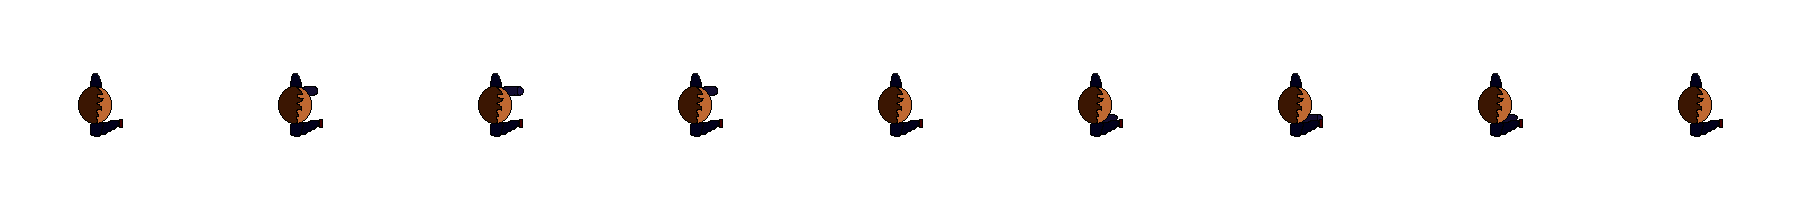
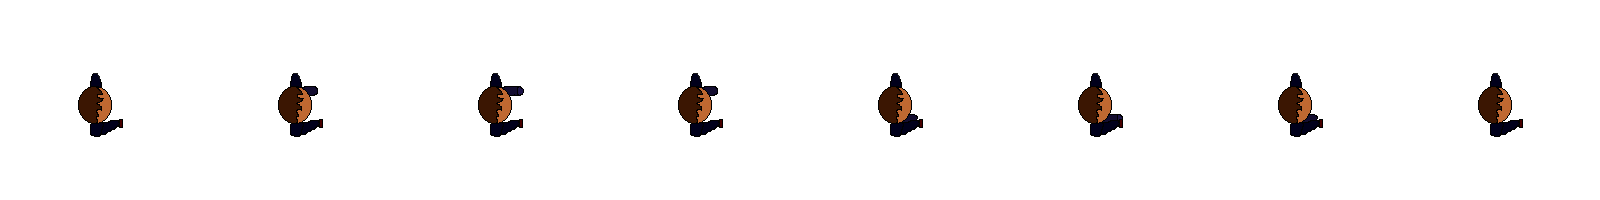
Updated the CharState finite state machine to include a "Face" state for every direction apart from the "Walk" states that already existed. Managed to get FaceRight and FaceLeft to work correctly. FaceUp and FaceDown have the character facing the correct direction but the rectangle is repositioned d

diff --git a/The_Attempt/The_Attempt/Game1.cs b/The_Attempt/The_Attempt/Game1.cs
@@ -49,7 +49,7 @@ namespace The_Attempt
         const int CHAR_WIDTH = 55;
         const int CHAR_X_OFFSET = 145;
 
-        enum CharState { WalkRight, WalkLeft, WalkUp, WalkDown };
+        enum CharState { WalkRight, WalkLeft, WalkUp, WalkDown, FaceRight, FaceLeft, FaceUp, FaceDown };
         CharState charState; // current state of the player character
         string pastDirection; // used to store the previous state
 
@@ -172,8 +172,6 @@ namespace The_Attempt
                         IsMouseVisible = true;
                         currentState = GameState.MainMenu;
                     }
-
-
                     break;
                 case GameState.MainGame:
                     // during the game, the player can press tab to bring up their phone menu
@@ -184,27 +182,62 @@ namespace The_Attempt
                         currentState = GameState.PhoneMenu;
                     }
 
-                    // check for input and update position
-                    string direction = input.Check(map);
-
                     // Calculate the frame to draw based on the time
                     framesElapsed = (int)(gameTime.TotalGameTime.TotalMilliseconds / timePerFrame);
                     frame = framesElapsed % numFrames + 1;
 
-                    // Add your finite state machine code (switch statement) here
+                    // check for input and update position
+                    string direction = input.Check(map);
+
+                    if (!kbState.IsKeyDown(Keys.A) && !kbState.IsKeyDown(Keys.D) && !kbState.IsKeyDown(Keys.W) && !kbState.IsKeyDown(Keys.S))
+                    {
+                        if (pastDirection == "Walk Left")
+                        {
+                            direction = "Face Left";
+                        }
+                        if(pastDirection == "Walk Right")
+                        {
+                            direction = "Face Right";
+                        }
+                        if (pastDirection == "Walk Up")
+                        {
+                            direction = "Face Up";
+                        }
+                        if (pastDirection == "Walk Down")
+                        {
+                            direction = "Face Down";
+                        }
+                    }
+
+                    pastDirection = direction; // store directiong for this update to use for comparison the next frame
+
+                    // finite state machine
                     switch (direction)
                     {
-                        case "Left":
+                        case "Walk Left":
                             charState = CharState.WalkLeft;
                             break;
-                        case "Right":
+                        case "Walk Right":
                             charState = CharState.WalkRight;
                             break;
-                        case "Up":
+                        case "Walk Up":
                             charState = CharState.WalkUp;
                             break;
-                        case "Down":
+                        case "Walk Down":
                             charState = CharState.WalkDown;
+                            break;
+
+                        case "Face Left":
+                            charState = CharState.FaceLeft;
+                            break;
+                        case "Face Right":
+                            charState = CharState.FaceRight;
+                            break;
+                        case "Face Up":
+                            charState = CharState.FaceUp;
+                            break;
+                        case "Face Down":
+                            charState = CharState.FaceDown;
                             break;
                     }
 
@@ -286,8 +319,7 @@ namespace The_Attempt
                 }
 
                 // draw the player to the screen
-                spriteBatch.Draw(player.CurrentTexture, player.Position, Color.White);
-
+                // if the player is walking in a direction
                 if (charState == CharState.WalkUp)
                 {
                     spriteBatch.Draw(playerImg, new Vector2(player.Position.X, player.Position.Y), null, Color.White, 1.57f, Vector2.Zero, 1, SpriteEffects.FlipHorizontally, 0);
@@ -304,7 +336,25 @@ namespace The_Attempt
                 {
                     spriteBatch.Draw(playerImg, new Vector2(player.Position.X, player.Position.Y), null, Color.White, 0, Vector2.Zero, 1, SpriteEffects.FlipHorizontally, 0);
                 }
-                
+
+                // if the player is only facing a direction (not walking)
+                if (charState == CharState.FaceUp)
+                {
+                    spriteBatch.Draw(playerImg, player.Position, null, Color.White, 1.57f, Vector2.Zero, SpriteEffects.FlipHorizontally, 0);
+                }
+                if (charState == CharState.FaceRight)
+                {
+                    spriteBatch.Draw(playerImg, player.Position, Color.White);
+                }
+                if (charState == CharState.FaceDown)
+                {
+                    spriteBatch.Draw(playerImg, player.Position, null, Color.White, -1.57f, Vector2.Zero, SpriteEffects.FlipHorizontally, 0);
+                }
+                if (charState == CharState.FaceLeft)
+                {
+                    spriteBatch.Draw(playerImg, player.Position, null, Color.White, 0, Vector2.Zero, SpriteEffects.FlipHorizontally, 0);
+                }
+
                 // draw the keys to the map
                 for (int i = 0; i < keys.Count; i++)
                 {

diff --git a/The_Attempt/The_Attempt/input.cs b/The_Attempt/The_Attempt/input.cs
@@ -38,7 +38,7 @@ namespace The_Attempt
                 // calls CollDectec.detect( argument either u,d,l or r (one of these), curGameMap.x, curGameMap.y) returning a bool to see if its colliding with a corridor
                 detect.corridorCheck(instanceOfPlayer, curGameMap, 'U' , curGameMap);
 
-                direction = "Up";
+                direction = "Face Up";
             }
             // check if the D key is being pressed
             if (kbState.IsKeyDown(Keys.D))
@@ -49,7 +49,7 @@ namespace The_Attempt
                 // calls CollDectec.detect( argument either u,d,l or r (one of these), curGameMap.x, curGameMap.y) returning a bool to see if its colliding with a corridor
                 detect.corridorCheck(instanceOfPlayer, curGameMap, 'R' , curGameMap);
 
-                direction = "Right";
+                direction = "Face Right";
             }
             // check if the S key is being pressed
             if (kbState.IsKeyDown(Keys.S))
@@ -60,7 +60,7 @@ namespace The_Attempt
                 // calls CollDectec.detect( argument either u,d,l or r (one of these), curGameMap.x, curGameMap.y) returning a bool to see if its colliding with a corridor
                 detect.corridorCheck(instanceOfPlayer, curGameMap, 'D' , curGameMap);
 
-                direction = "Down";
+                direction = "Face Down";
             }
             // check if the A key is being pressed
             if (kbState.IsKeyDown(Keys.A))
@@ -71,7 +71,7 @@ namespace The_Attempt
                 // calls CollDectec.detect( argument either u,d,l or r (one of these), curGameMap.x, curGameMap.y) returning a bool to see if its colliding with a corridor
                 detect.corridorCheck(instanceOfPlayer, curGameMap, 'L' , curGameMap);
 
-                direction = "Left";
+                direction = "Face Left";
             }
             // check if the space key is being pressed
             
